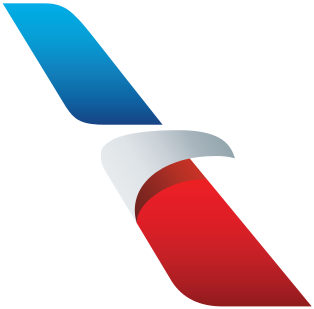
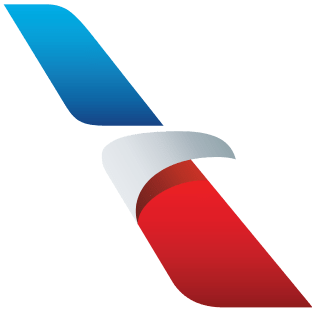
changed image

diff --git a/index.html b/index.html
@@ -31,7 +31,7 @@
     <!-- Flight -->
     <header class="masthead bg-primary text-white text-center">
       <div class="container">
-        <img class="img-fluid mb-5 d-block mx-auto" src="img/profile.png" alt="">
+        <img class="img-fluid mb-5 d-block mx-auto" src="aa.png" alt="">
         <h1 class="text-uppercase mb-0">Flight #BJ6969</h1>
         <hr class="star-light">
         <h2 class="font-weight-light mb-0">Time Left for you're Arrival!</h2>
